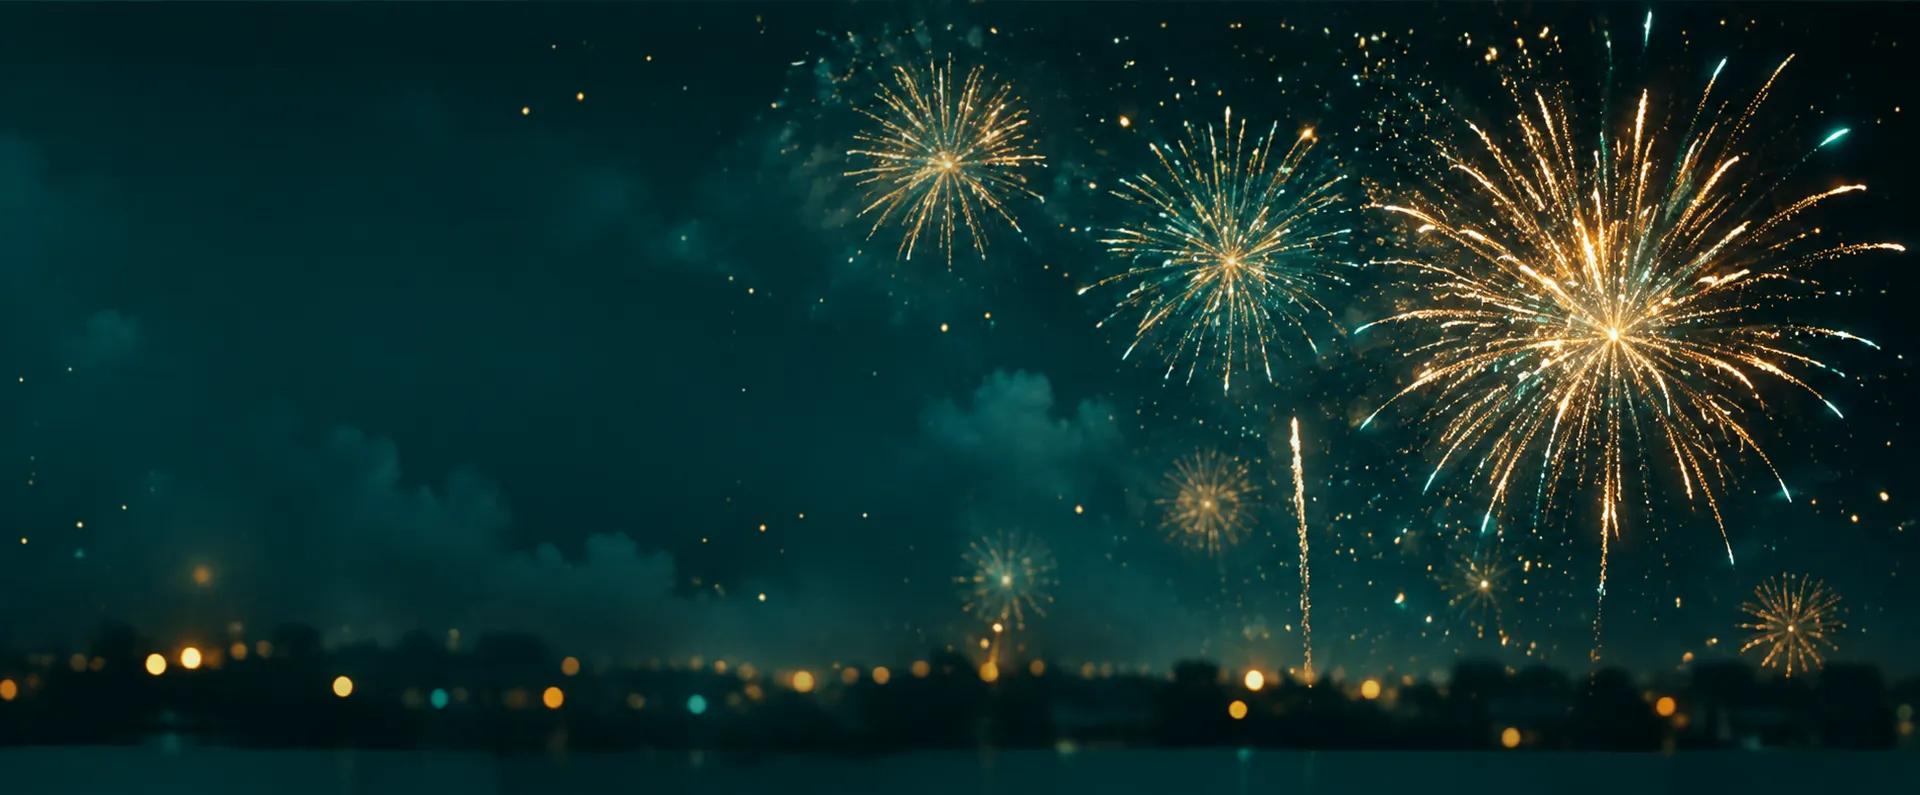
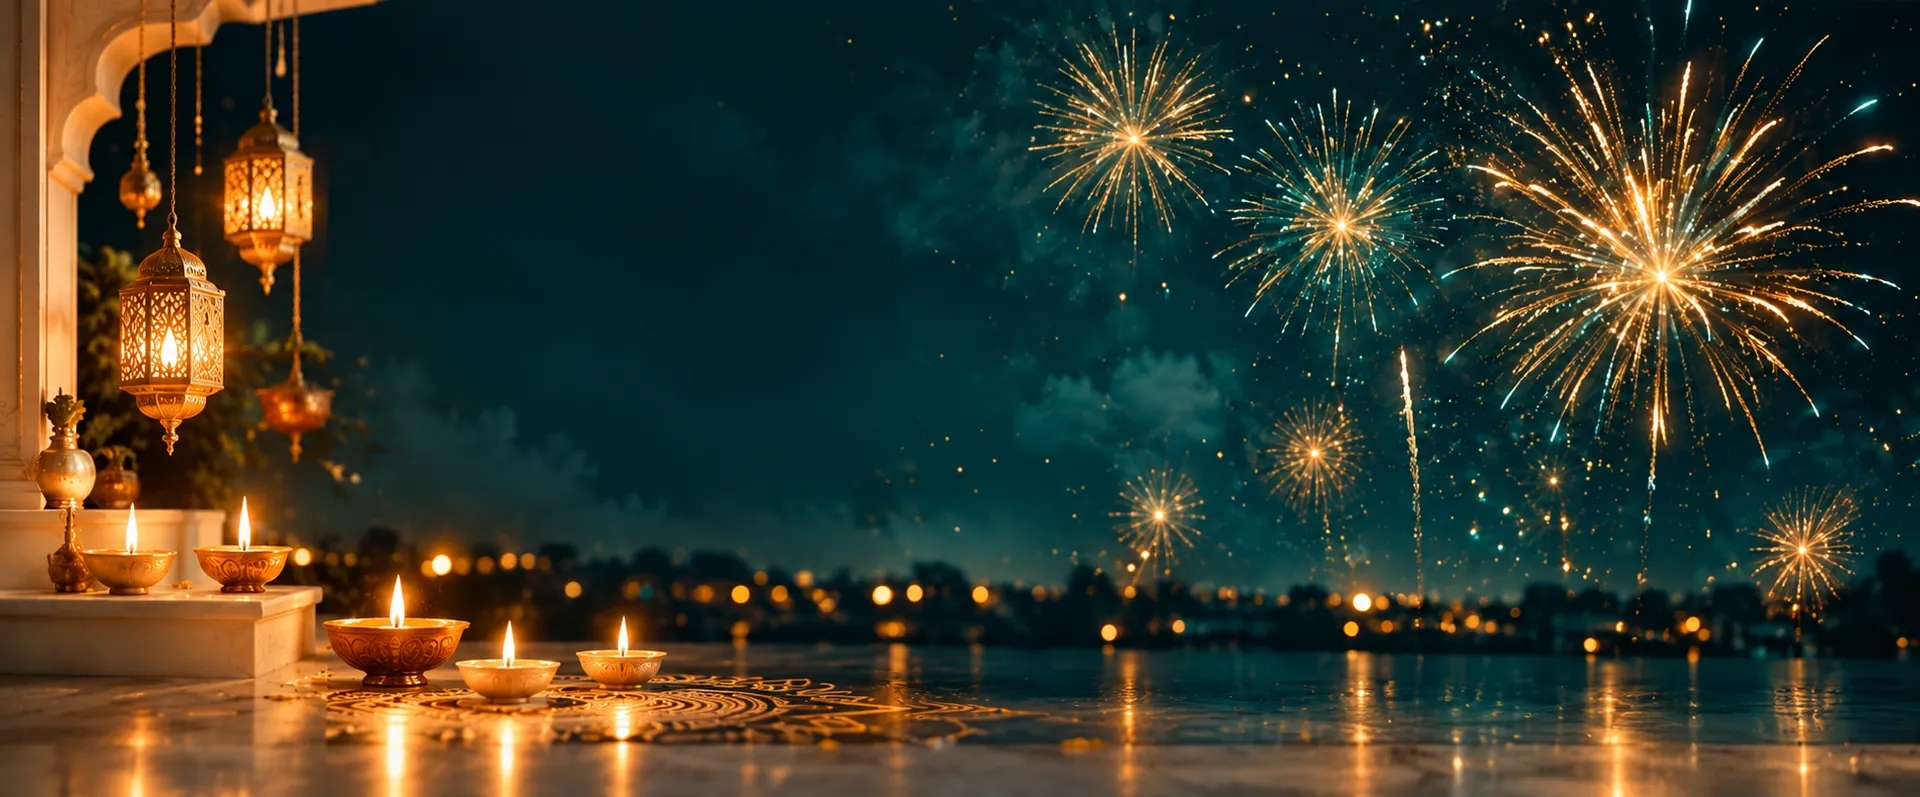
Update hero poster art and extend mobile hero before the wave.
Regenerate hero-fireworks-bg from the new Diwali scene and give phones more vertical space with a lower white wave.

diff --git a/src/components/customer/WaveDivider.tsx b/src/components/customer/WaveDivider.tsx
@@ -60,6 +60,8 @@ export function WaveDivider() {
 
 /** Cream transition for catalogue pages */
 const HERO_WAVE_WHITE_PATH = 'M0,40 C400,70 1000,16 1440,36 V100 H0 Z'
+/** Softer curve — white starts lower on small screens so hero breathes above the fold */
+const HERO_WAVE_WHITE_PATH_MOBILE = 'M0,76 C400,92 1000,52 1440,72 V100 H0 Z'
 
 export function WaveDividerWhite() {
   return (
@@ -68,7 +70,17 @@ export function WaveDividerWhite() {
         viewBox={HERO_WAVE_VIEWBOX}
         fill="none"
         xmlns="http://www.w3.org/2000/svg"
-        className="block h-10 w-full max-w-none sm:h-14 md:h-16"
+        className="block h-14 w-full max-w-none sm:hidden"
+        preserveAspectRatio="none"
+        aria-hidden="true"
+      >
+        <path d={HERO_WAVE_WHITE_PATH_MOBILE} fill="#ffffff" />
+      </svg>
+      <svg
+        viewBox={HERO_WAVE_VIEWBOX}
+        fill="none"
+        xmlns="http://www.w3.org/2000/svg"
+        className="hidden h-14 w-full max-w-none sm:block md:h-16"
         preserveAspectRatio="none"
         aria-hidden="true"
       >

diff --git a/src/components/prime/PrimeHero.tsx b/src/components/prime/PrimeHero.tsx
@@ -83,7 +83,7 @@ export function PrimeHero() {
   return (
     <section
       ref={sectionRef}
-      className="relative min-h-[74svh] min-h-[480px] overflow-hidden sm:min-h-[76svh] lg:min-h-[min(78svh,680px)]"
+      className="relative min-h-[min(100svh,920px)] overflow-hidden sm:min-h-[76svh] sm:min-h-[480px] lg:min-h-[min(78svh,680px)]"
     >
       <OptimizedBackground src={PRIME_BRAND.heroPoster} priority className="z-0" />
       {playVideo ? (
@@ -117,7 +117,7 @@ export function PrimeHero() {
         </>
       ) : null}
 
-      <div className="relative z-[3] mx-auto flex max-w-7xl flex-col justify-start px-4 pb-14 pt-[5.25rem] sm:px-6 sm:pb-16 sm:pt-[6.25rem] lg:pb-20 lg:pt-[6.75rem]">
+      <div className="relative z-[3] mx-auto flex max-w-7xl flex-col justify-start px-4 pb-32 pt-24 sm:px-6 sm:pb-16 sm:pt-[6.25rem] lg:pb-20 lg:pt-[6.75rem]">
         <div className="hero-copy-panel max-w-xl pl-6 sm:pl-10 md:pl-16 lg:max-w-2xl lg:pl-20">
           <AnimateIn animation="fade-down" delay={80}>
             <p

diff --git a/src/lib/primeBrand.ts b/src/lib/primeBrand.ts
@@ -15,6 +15,7 @@ export const PRIME_BRAND = {
   heroVideo: '/hero-fireworks.mp4',
   /** Cropped for phones — bursts on the right, text on the left */
   heroVideoMobile: '/hero-fireworks-mobile.mp4',
+  /** WebP poster from `Festive Diwali Night with Fireworks and Diyas.png` */
   heroPoster: '/hero-fireworks-bg.webp',
   heroImage: '/hero-fireworks-bg.webp',
   /** Fireworks celebration scene — contact page CTA */
